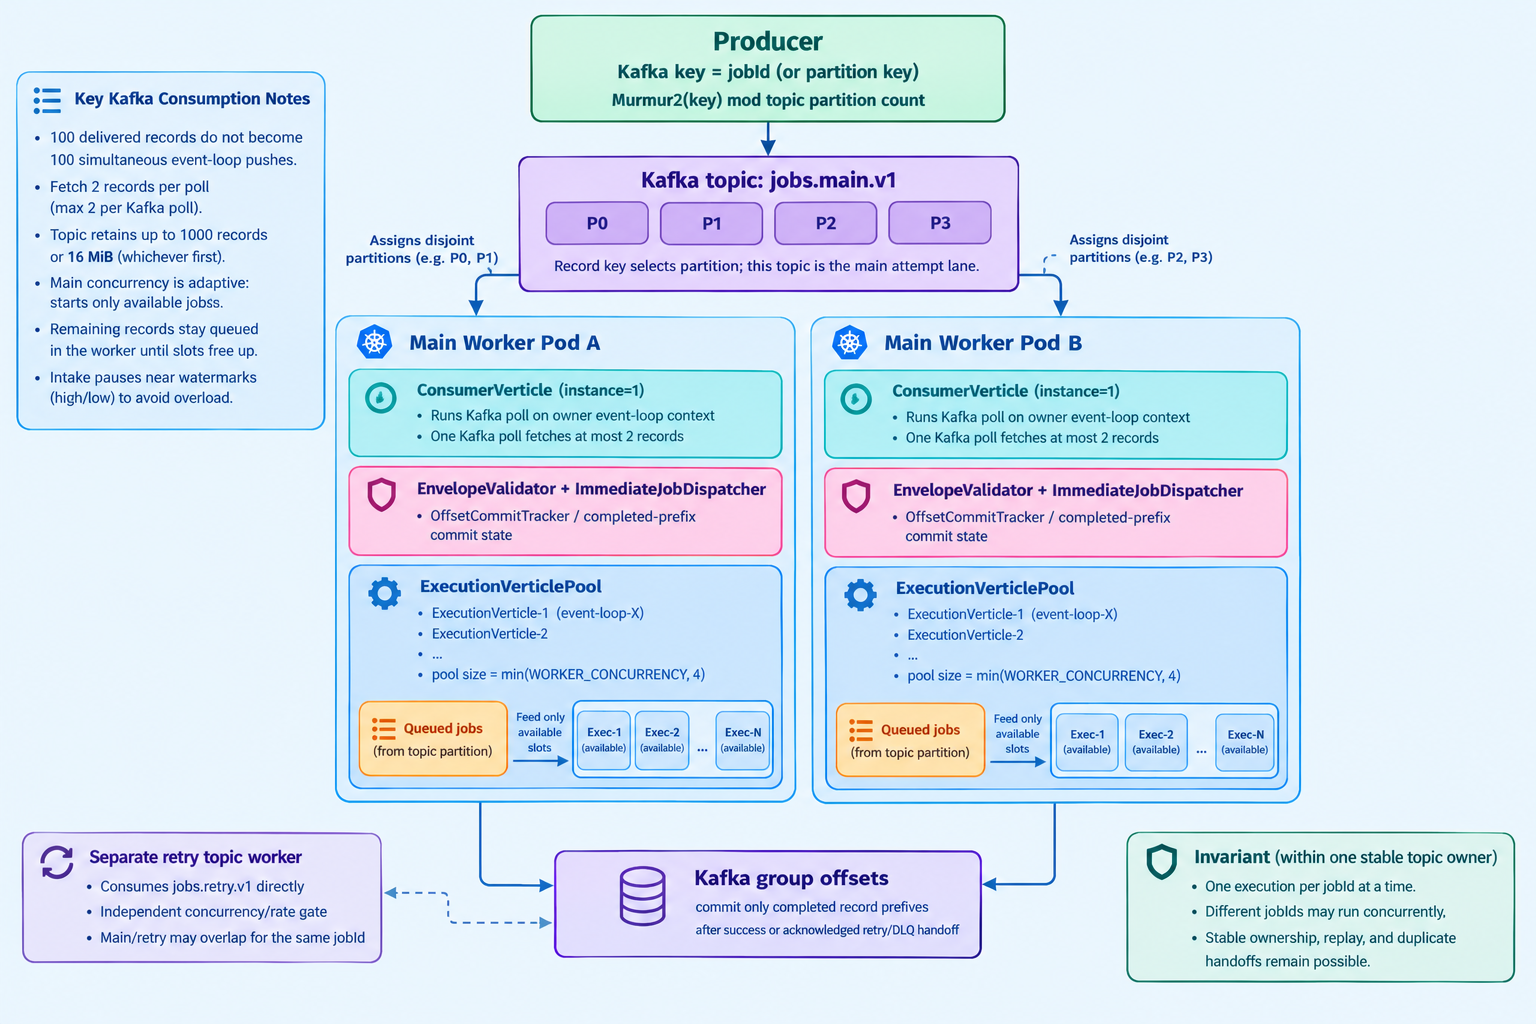
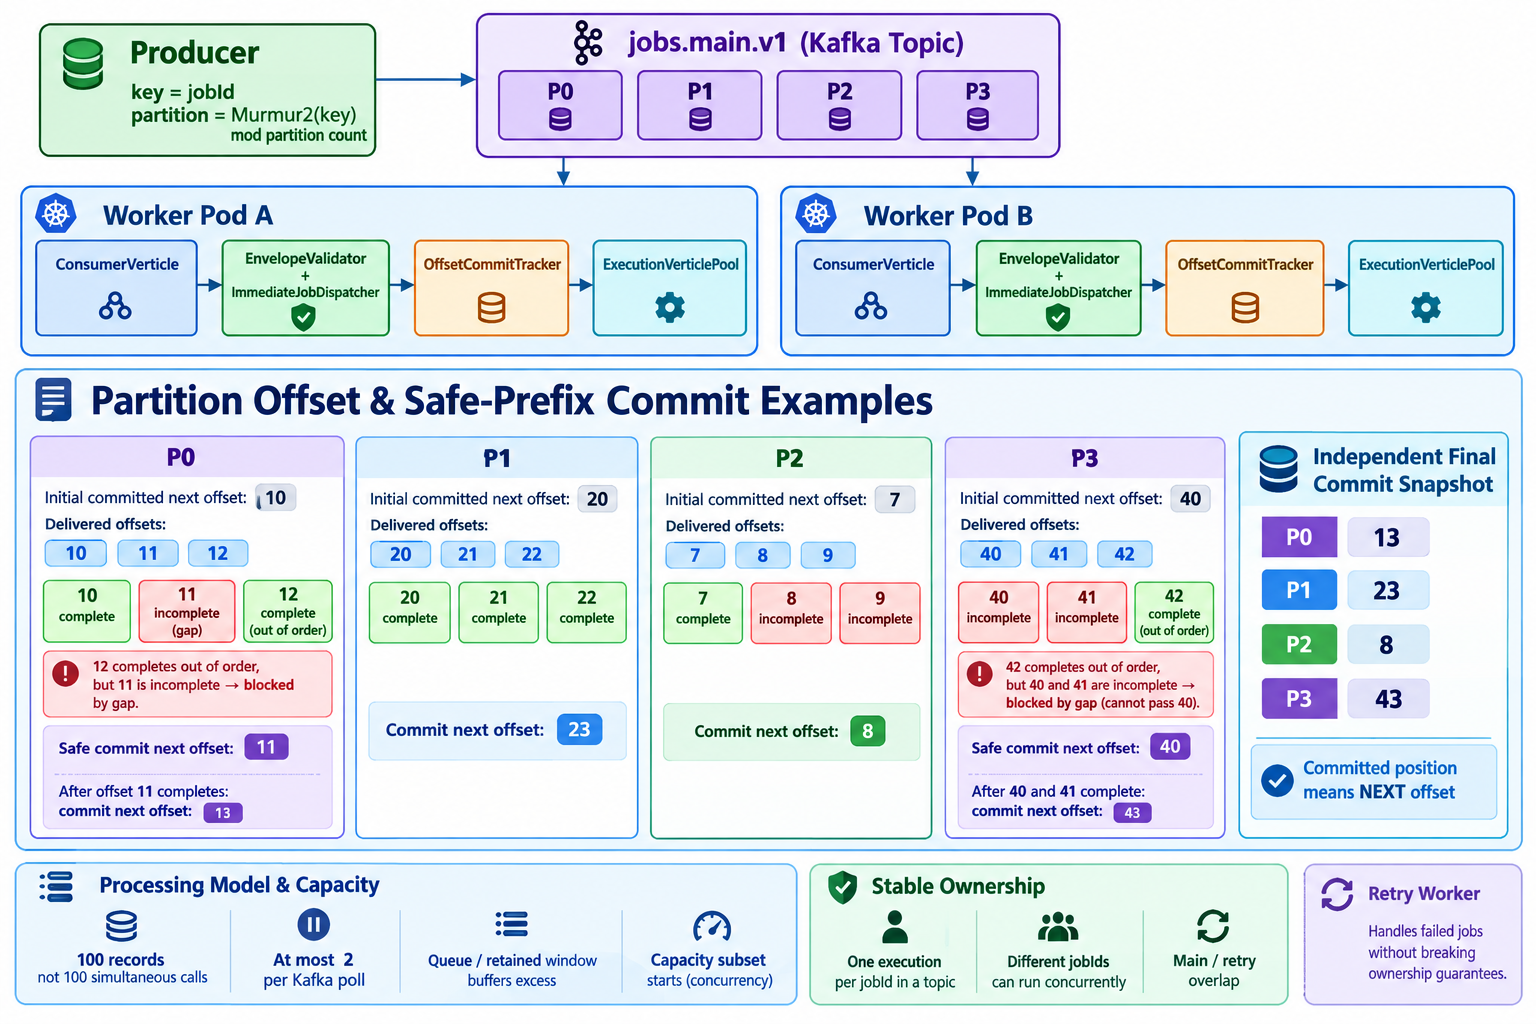
docs: add concrete Kafka partition offset examples
Show completed and incomplete offsets, out-of-order completion, and independent high continuous commit positions in the architecture diagram and docs.

diff --git a/arch.md b/arch.md
@@ -181,6 +181,40 @@ after the broker acknowledges the matching commit. Handler success and
 acknowledged retry/DLQ handoff advance prefix eligibility; failed publication
 does not rerun the handler and leaves the source incomplete.
 
+#### Concrete offset examples
+
+Kafka commits a **next offset**, not a set of individual record identifiers.
+The examples below assume the partition assignment includes P0–P3 and that all
+record deliveries are retained in offset order:
+
+| Partition | Delivered offsets | Current completion state | Safe continuous commit |
+| --- | --- | --- | --- |
+| P0 | 10, 11, 12 | 10 complete; 11 incomplete; 12 complete out of order | Commit 11; offset 11 blocks P0. After 11 completes, commit 13. |
+| P1 | 20, 21, 22 | 20, 21, 22 complete | Commit 23. |
+| P2 | 7, 8, 9 | 7 complete; 8, 9 incomplete | Commit 8. |
+| P3 | 40, 41, 42 | 42 complete out of order; 40, 41 incomplete | No commit past 40. After 40 and 41 complete, commit 43. |
+
+The P0 example demonstrates an important case: offset 12 may complete before
+offset 11, but P0 cannot bypass offset 11. The P3 example also preserves delivery
+order even though out-of-order completions occur.
+
+After each safe prefix advances and receives broker acknowledgment, independent
+partition commits could be:
+
+```text
+P0 -> 13
+P1 -> 23
+P2 -> 8
+P3 -> 43
+```
+
+Each value is the offset where that partition should continue on replay. P2
+commits 8 because offsets 7 and lower are complete; it does not imply that
+offset 8 or 9 has completed. P0's 13 does not imply completion of records in P1,
+P2, or P3. Commits are independent per partition. A commit snapshot containing
+all four offsets is still sent only after each prefix in that snapshot is safe
+and only one Kafka commit request may be outstanding at a time.
+
 ```text
 Producer: key = canonical jobId
               |

diff --git a/README.md b/README.md
@@ -43,6 +43,14 @@ Kafka intake pauses near the retained-work high watermark (1,000 records or
 continues processing retained work and commits only completed record prefixes
 after success or acknowledged retry/DLQ handoff.
 
+For example, an offset is a record number, while the Kafka committed position
+is the next offset: P0 records 10–12 with offsets 10 and 12 complete can
+advance only to 11 because offset 11 is unfinished, assuming 10 was the prior
+next-offset position. After offset 11 completes, P0 may commit 13. P1 can
+independently commit 23 after offsets 20, 21, and 22 complete. P3 cannot commit
+past offsets 40 or 41 even if offset 42 completes first; completion of 40 and 41
+permits the next commit at 43.
+
 See [section 5.2 of the architecture](arch.md#52-level-2-consumer-verticle-and-partition-ownership)
 for the complete partition, ownership, and runtime boundaries.
 
